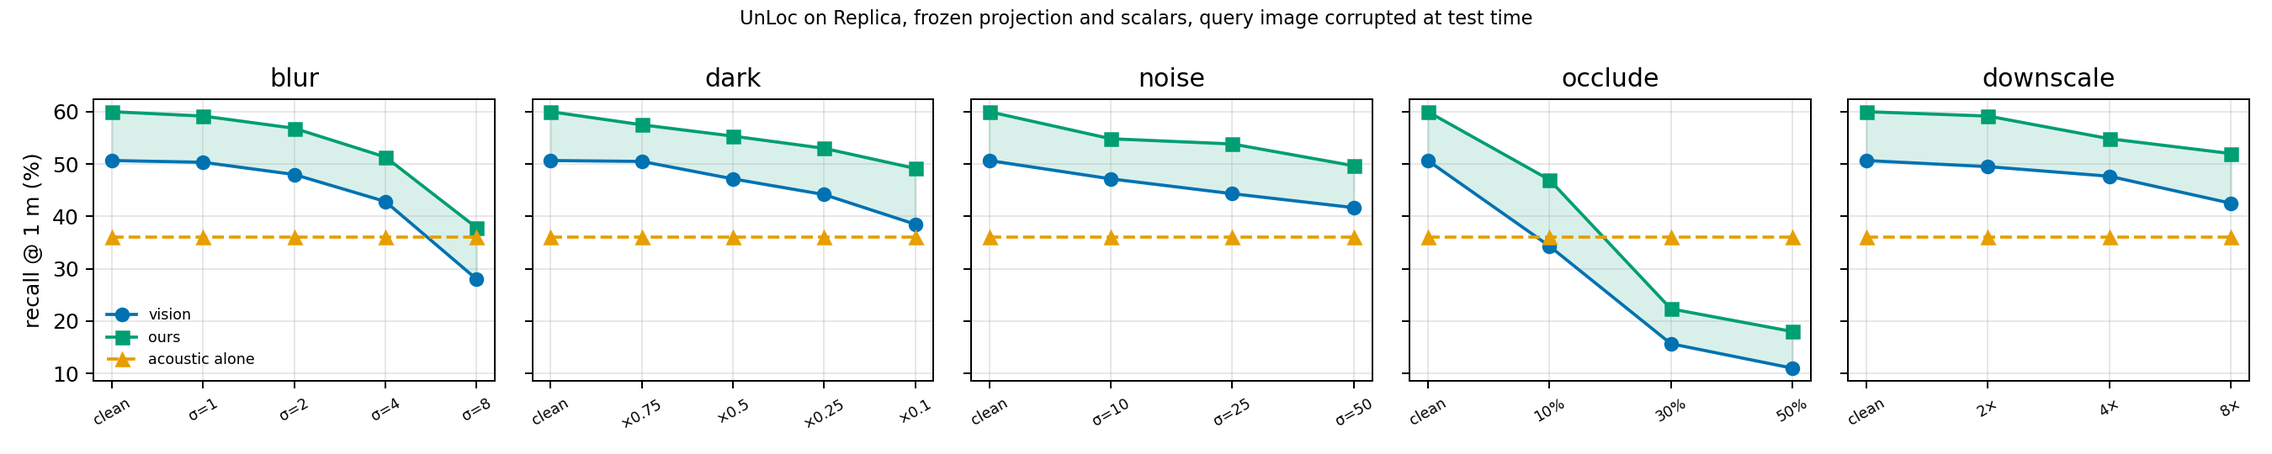
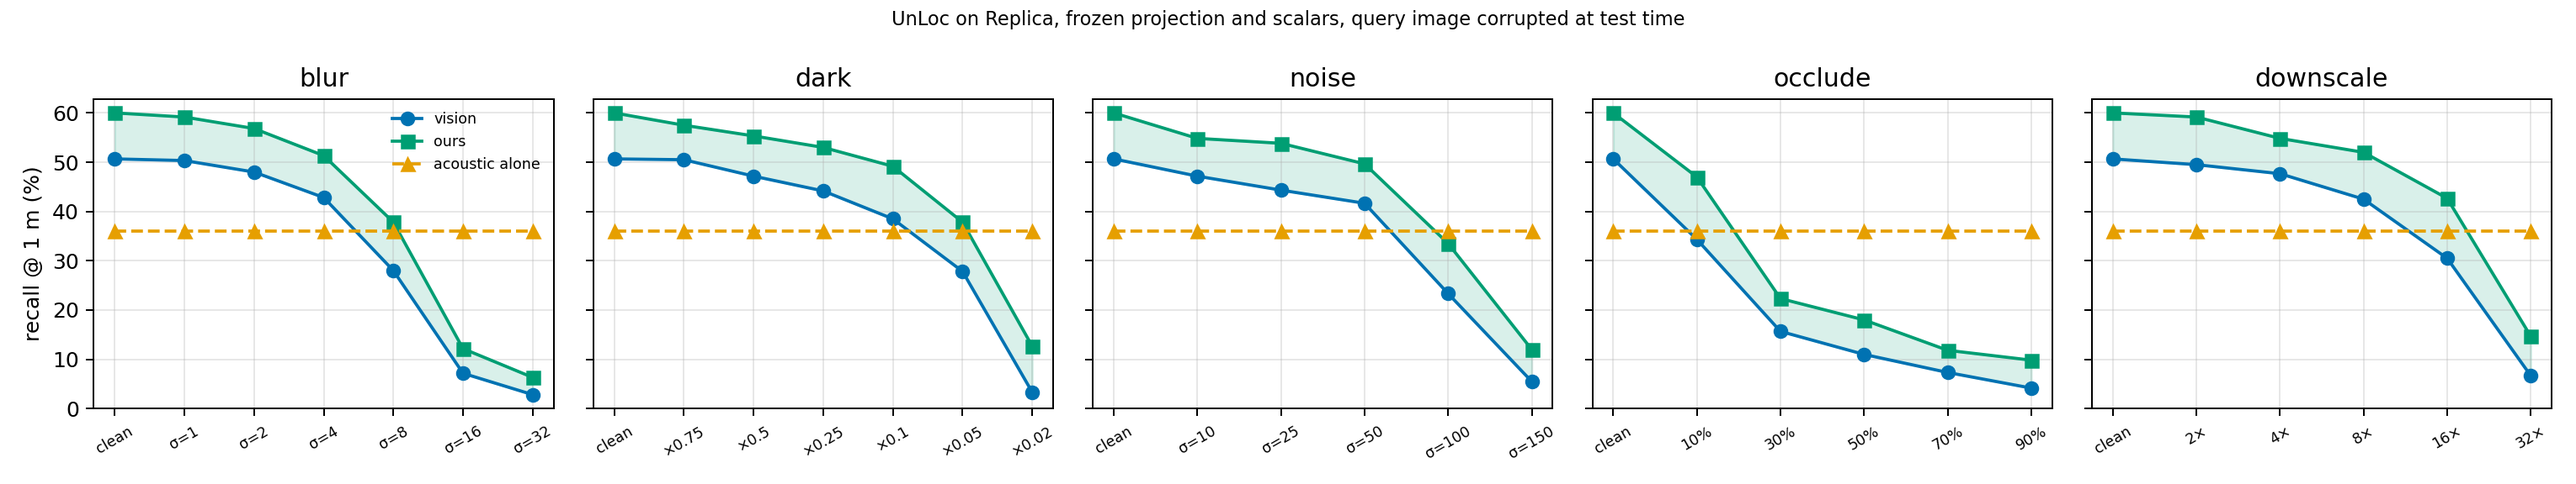
Degradation: two harsher levels per family
Claude-Session: https://claude.ai/code/session_0133RcFQGKZLXQPk8n9Pc1xq

diff --git a/feasible/run_degradation_final.py b/feasible/run_degradation_final.py
@@ -41,11 +41,13 @@ BASE = ("--dataset-root /root/storage/echoloc_dataset/replica --collections repl
         "--scenes office_4 apartment_2 frl_apartment_5 --condition raw_scan_open "
         f"--grid-dir outputs/acoustic_grid_v2 --backbone unloc --checkpoint {UNLOC_CK} "
         "--feature stft_band --nfft 256 --hop 64 --n-poses 100")
-LEVELS = [("clean", None), ("blur", 1), ("blur", 2), ("blur", 4), ("blur", 8),
-          ("dark", 0.75), ("dark", 0.5), ("dark", 0.25), ("dark", 0.1),
-          ("noise", 10), ("noise", 25), ("noise", 50),
-          ("occlude", 0.1), ("occlude", 0.3), ("occlude", 0.5),
-          ("downscale", 2), ("downscale", 4), ("downscale", 8)]
+# the last two of each family are past anything a working camera produces; they
+# are there to show where the shortlist itself gives out
+LEVELS = [("clean", None), ("blur", 1), ("blur", 2), ("blur", 4), ("blur", 8), ("blur", 16), ("blur", 32),
+          ("dark", 0.75), ("dark", 0.5), ("dark", 0.25), ("dark", 0.1), ("dark", 0.05), ("dark", 0.02),
+          ("noise", 10), ("noise", 25), ("noise", 50), ("noise", 100), ("noise", 150),
+          ("occlude", 0.1), ("occlude", 0.3), ("occlude", 0.5), ("occlude", 0.7), ("occlude", 0.9),
+          ("downscale", 2), ("downscale", 4), ("downscale", 8), ("downscale", 16), ("downscale", 32)]
 LABEL = {"clean": "clean", "blur": "blur σ={}", "dark": "dark ×{}", "noise": "noise σ={}",
          "occlude": "occlude {:.0%}", "downscale": "downscale {}×"}
 # UnLoc at batch 1 takes about 3.5 GB, so a card that other tenants leave 6 GB
@@ -132,7 +134,7 @@ def main() -> int:
     matplotlib.use("Agg")
     import matplotlib.pyplot as plt
     fams = ["blur", "dark", "noise", "occlude", "downscale"]
-    fig, axes = plt.subplots(1, len(fams), figsize=(3.0 * len(fams), 3.0), sharey=True)
+    fig, axes = plt.subplots(1, len(fams), figsize=(3.4 * len(fams), 3.2), sharey=True)
     clean = next((r for r in rows if r["family"] == "clean"), None)
     for ax, fam in zip(axes, fams):
         rs = [r for r in rows if r["family"] == fam]

diff --git a/feasible/results/V_final_unloc.md b/feasible/results/V_final_unloc.md
@@ -9,16 +9,26 @@ Projection R and the scalars chosen on the clean validation rooms are frozen (Mo
 | blur σ=2 | 600 | 48.0% | 36.0% | 56.8% | +8.8 | [+5.5, +12.3] | 94% |
 | blur σ=4 | 600 | 42.8% | 36.0% | 51.3% | +8.5 | [+5.0, +12.0] | 96% |
 | blur σ=8 | 600 | 28.0% | 36.0% | 37.8% | +9.8 | [+6.5, +13.2] | 100% |
-| dark ×0.75 | 600 | 50.5% | 36.0% | 57.5% | +7.0 | [+3.8, +10.3] | 91% |
-| dark ×0.5 | 600 | 47.2% | 36.0% | 55.3% | +8.2 | [+5.0, +11.5] | 92% |
-| dark ×0.25 | 600 | 44.2% | 36.0% | 53.0% | +8.8 | [+5.7, +12.0] | 93% |
-| dark ×0.1 | 600 | 38.5% | 36.0% | 49.2% | +10.7 | [+7.3, +14.0] | 95% |
-| noise σ=10 | 600 | 47.2% | 36.0% | 54.8% | +7.7 | [+4.5, +10.8] | 92% |
+| blur σ=16 | 600 | 7.2% | 36.0% | 12.2% | +5.0 | [+2.2, +7.7] | 100% |
+| blur σ=32 | 600 | 2.8% | 36.0% | 6.3% | +3.5 | [+1.8, +5.2] | 100% |
+| dark ×0.75 | 600 | 50.5% | 36.0% | 57.5% | +7.0 | [+3.8, +10.2] | 91% |
+| dark ×0.5 | 600 | 47.2% | 36.0% | 55.3% | +8.2 | [+4.8, +11.5] | 92% |
+| dark ×0.25 | 600 | 44.2% | 36.0% | 53.0% | +8.8 | [+5.5, +12.2] | 93% |
+| dark ×0.1 | 600 | 38.5% | 36.0% | 49.2% | +10.7 | [+7.2, +14.0] | 95% |
+| dark ×0.05 | 600 | 27.8% | 36.0% | 37.8% | +10.0 | [+7.0, +13.2] | 98% |
+| dark ×0.02 | 600 | 3.3% | 36.0% | 12.7% | +9.3 | [+6.7, +12.0] | 100% |
+| noise σ=10 | 600 | 47.2% | 36.0% | 54.8% | +7.7 | [+4.5, +11.0] | 92% |
 | noise σ=25 | 600 | 44.3% | 36.0% | 53.8% | +9.5 | [+6.2, +12.8] | 93% |
-| noise σ=50 | 600 | 41.7% | 36.0% | 49.7% | +8.0 | [+4.7, +11.5] | 96% |
-| occlude 10% | 600 | 34.3% | 36.0% | 47.0% | +12.7 | [+9.2, +16.3] | 98% |
+| noise σ=50 | 600 | 41.7% | 36.0% | 49.7% | +8.0 | [+4.7, +11.3] | 96% |
+| noise σ=100 | 600 | 23.3% | 36.0% | 33.5% | +10.2 | [+6.7, +13.7] | 99% |
+| noise σ=150 | 600 | 5.5% | 36.0% | 12.0% | +6.5 | [+4.0, +9.0] | 100% |
+| occlude 10% | 600 | 34.3% | 36.0% | 47.0% | +12.7 | [+9.2, +16.2] | 98% |
 | occlude 30% | 600 | 15.7% | 36.0% | 22.3% | +6.7 | [+3.8, +9.5] | 100% |
-| occlude 50% | 600 | 11.0% | 36.0% | 18.0% | +7.0 | [+4.3, +9.7] | 100% |
+| occlude 50% | 600 | 11.0% | 36.0% | 18.0% | +7.0 | [+4.5, +9.7] | 100% |
+| occlude 70% | 600 | 7.3% | 36.0% | 11.8% | +4.5 | [+2.0, +7.2] | 100% |
+| occlude 90% | 600 | 4.2% | 36.0% | 9.8% | +5.7 | [+3.7, +7.8] | 100% |
 | downscale 2× | 600 | 49.5% | 36.0% | 59.2% | +9.7 | [+6.3, +13.0] | 92% |
 | downscale 4× | 600 | 47.7% | 36.0% | 54.8% | +7.2 | [+3.8, +10.5] | 93% |
-| downscale 8× | 600 | 42.5% | 36.0% | 52.0% | +9.5 | [+6.3, +12.8] | 96% |
+| downscale 8× | 600 | 42.5% | 36.0% | 52.0% | +9.5 | [+6.3, +12.7] | 96% |
+| downscale 16× | 600 | 30.5% | 36.0% | 42.7% | +12.2 | [+8.8, +15.5] | 99% |
+| downscale 32× | 600 | 6.7% | 36.0% | 14.7% | +8.0 | [+5.7, +10.5] | 100% |
